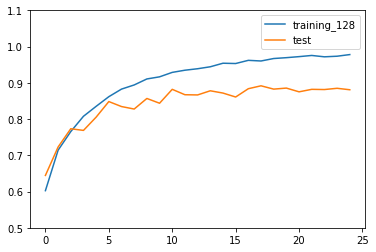
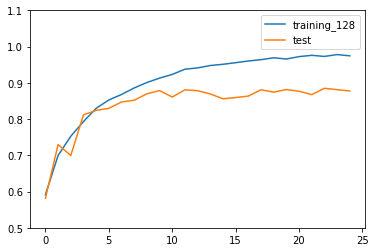
0.2 87%
Il semble que plus la proportion d'images de train vs test. Plus le % est stable et élevé.

Changed region(s): [[0.117, 0.2222, 0.9362, 0.8056], [0.8191, 0.1944, 0.9362, 0.25]]

diff --git a/CNN_net.py b/CNN_net.py
@@ -67,7 +67,7 @@ model.compile(optimizer="adam",#adamax,
 
 history = model.fit(train_images,
                     train_labels,
-                    validation_split = 0.1,
+                    validation_split = 0.2,
                     epochs = 25,
                     batch_size= 20)
 
